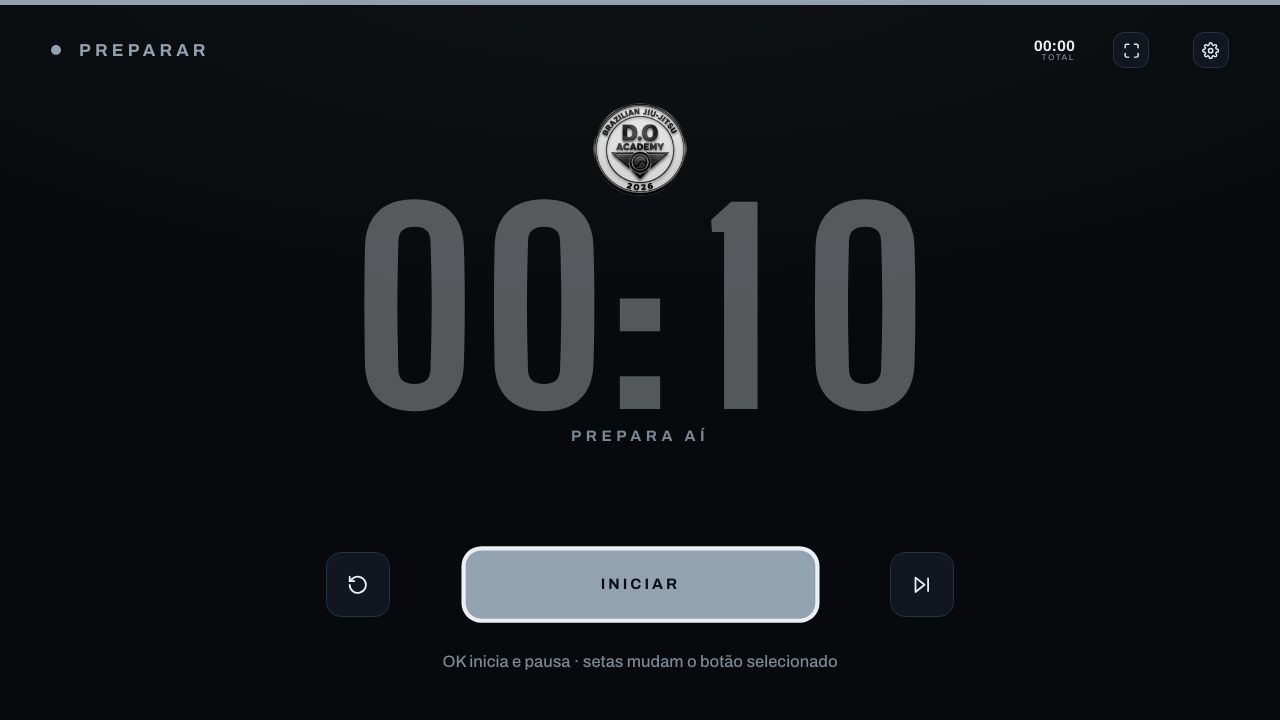
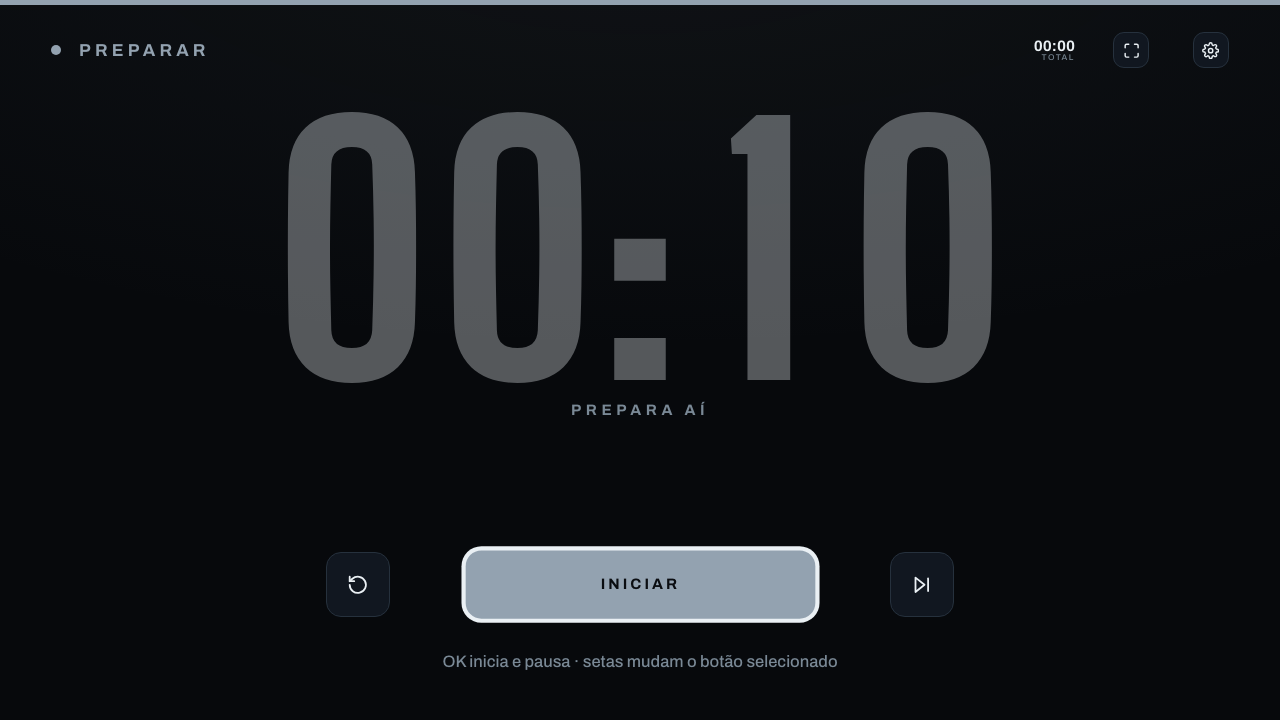
Versão da loja: sem o brasão da academia e com ícone próprio
Marca de terceiro numa listagem pública pede comprovação de direito, e um app
com a marca de uma academia específica serve mal ao público geral da loja.

build-loja.sh gera uma variante a partir do mesmo index.html:

- remove o brasão, que era 161 kB de data URI — o pacote cai de 180 para 56 kB
- usa um ícone próprio: um anel que esquenta de verde a vermelho em quatro
  trechos, com os dois pontos do relógio no centro, desenhado em SVG e
  rasterizado em 400, 130 e 80 px
- aumenta o relógio de 36vh para 46vh, ocupando o espaço que o brasão deixou
- usa outro app id, então as duas versões convivem na mesma TV

A versão da academia continua no build-webos.sh, com o brasão. Capturas da
loja regeradas a partir da variante sem marca.

Changed region(s): [[0.2188, 0.1222, 0.7812, 0.6111]]

diff --git a/loja/README.md b/loja/README.md
@@ -9,7 +9,8 @@ O que está pronto aqui e o que ainda depende de você.
 | `1-rola-comecando.png` … `5-tela-inicial.png` | Capturas em 1280x720, geradas do app real |
 | `icone-400.png` | Ícone 400x400 para a listagem da loja |
 | `ux-scenario.md` | Documento de cenário de UX exigido pela LG, em inglês |
-| `../webos/*.ipk` | O pacote, gerado por `./build-webos.sh` |
+| `icone-generico-400/130/80.png` | Ícone próprio do app, sem marca de terceiro |
+| `../webos-loja/*.ipk` | O pacote da loja, gerado por `./build-loja.sh` |
 
 As capturas foram feitas com Chrome headless a partir do próprio `index.html`,
 com as transições desligadas — sem isso o tempo virtual do headless congela as
@@ -25,19 +26,21 @@ cores no estado inicial.
 4. **Confirmar os tamanhos de imagem** exigidos: eles aparecem no formulário de
    submissão e mudam de tempos em tempos.
 
-## Uma decisão antes de enviar
+## Duas versões, de propósito
 
-O app mostra o **brasão da D.O Academy**. Numa listagem pública da loja isso
-levanta duas questões: a LG pode pedir comprovação de direito sobre a marca, e
-um app com a marca de uma academia específica faz menos sentido para o público
-geral da loja.
+| | Academia | Loja |
+| --- | --- | --- |
+| Script | `./build-webos.sh` | `./build-loja.sh` |
+| App ID | `com.nailson.tatame` | `com.nailson.cronometrotatame` |
+| Brasão da D.O | sim | **não** |
+| Ícone | o brasão | anel genérico |
+| Relógio | 36vh | 46vh, ocupando o espaço do brasão |
+| Pacote | 180 kB | **56 kB** |
 
-Duas saídas:
+Os ids são diferentes, então as duas convivem na mesma TV sem conflito: você
+segue usando a versão com o brasão nas TVs da academia por Dev Mode, e a
+genérica é a que vai para a loja.
 
-- **Publicar sem o brasão**, como cronômetro genérico de jiu-jitsu. Mais fácil
-  de aprovar e mais útil para outras academias.
-- **Publicar com o brasão**, tendo em mãos a comprovação de que a marca é da
-  academia.
-
-O brasão está embutido como data URI no `index.html`; tirá-lo é uma alteração
-pequena.
+Tirar o brasão evita que a LG peça comprovação de direito sobre a marca, e um
+cronômetro genérico serve a qualquer academia — o que é o ponto de estar numa
+loja pública.

diff --git a/loja/ux-scenario.md b/loja/ux-scenario.md
@@ -6,7 +6,7 @@ and the expected behaviour of each function.
 | | |
 | --- | --- |
 | App name | Cronômetro do Tatame |
-| App ID | com.nailson.tatame |
+| App ID | com.nailson.cronometrotatame |
 | Version | 1.0.0 |
 | Category | Sports / Fitness |
 | Language | Portuguese (pt-BR) |
@@ -40,8 +40,8 @@ focus position is readable from a distance.
 ## Screen 1 — Main screen
 
 Layout, top to bottom: phase label and status dot, total elapsed time, two
-icon buttons (fullscreen, settings); academy crest; large countdown; round
-label; rest message; three buttons (reset, start/pause, skip); remote legend.
+icon buttons (fullscreen, settings); large countdown; round label; rest
+message; three buttons (reset, start/pause, skip); remote legend.
 
 ### Test steps
 
@@ -100,4 +100,3 @@ the background.
 - The app never requests the network. Testing with the TV offline is expected
   to behave identically, including fonts.
 - Text is Portuguese (pt-BR); the audience is Brazilian jiu-jitsu academies.
-- The crest shown on screen is the logo of the academy the app was built for.

diff --git a/README.md b/README.md
@@ -113,5 +113,7 @@ e o que não é óbvio ao escrever um app web para TV.
 | `webos/icon.png`, `largeIcon.png` | Ícones 80x80 e 130x130 exigidos pela webOS |
 | `build-webos.sh` | Copia o index.html e gera o `.ipk` |
 | `install-tv.sh` | Envia e instala o `.ipk` na TV por Dev Mode |
+| `build-loja.sh` | Gera a versão da LG Content Store, sem o brasão |
+| `loja/` | Capturas, ícones e documentação para a submissão |
 | `docs/tv-lg.md` | Guia completo de instalação e desenvolvimento para TV LG |
 | `renova-devmode.sh` | Renova a sessão de Dev Mode pela API da LG (999h por vez) |
